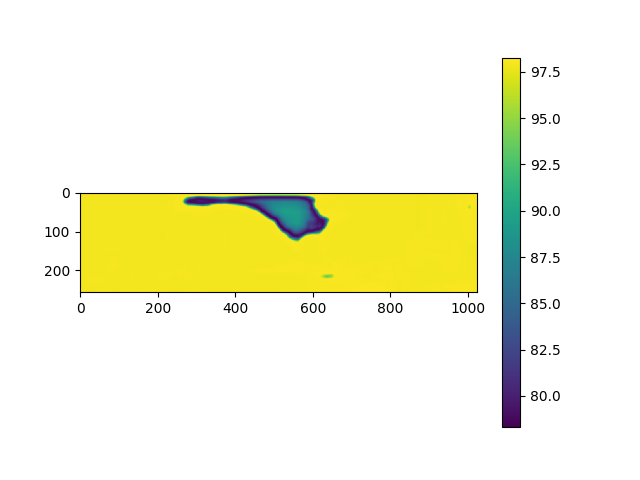
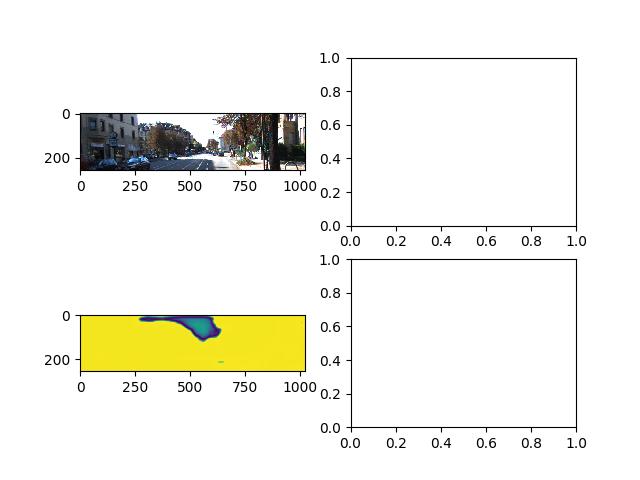
test

diff --git a/model_manager.py b/model_manager.py
@@ -103,8 +103,8 @@ class Manager():
         
         disp = self.model(img_left, img_right)
         disp = disp.squeeze(0).detach().cpu().numpy()
-     
-        # axarr[0, 0].imshow(left)
-        plt.imshow(disp)
-        plt.colorbar()
+        
+        f, axarr = plt.subplots(2, 2)
+        axarr[0, 0].imshow(left)
+        axarr[1, 0].imshow(disp)
         plt.savefig(out)
